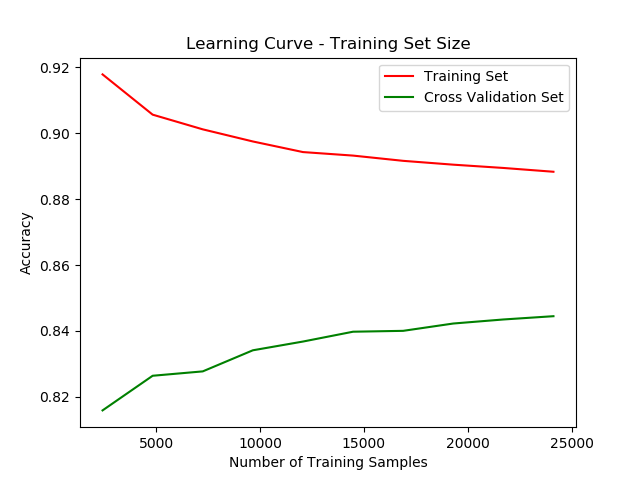
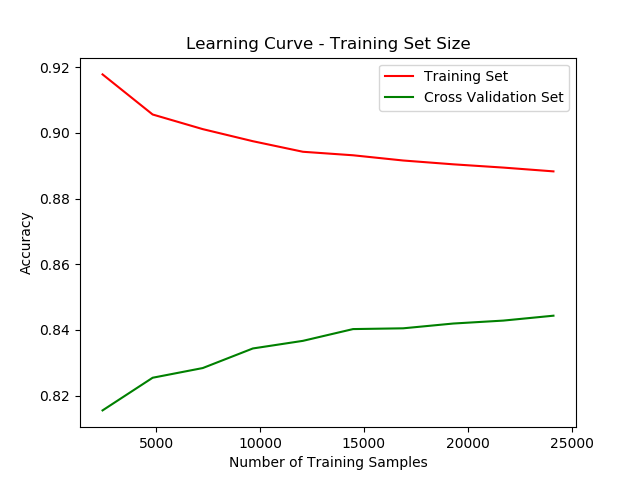
adding neural net

diff --git a/solution/classifiers/census_neural_network.py b/solution/classifiers/census_neural_network.py
@@ -1,6 +1,16 @@
 """
-Decision Tree Classifiers for two U.S Census Income Data
+Neural Net Classifier for two U.S Census Income Data
 This serves as a simple script and can by run directly.
+
+We do the following steps:
+    1. Pre-process the data set
+    2. Plot learning curve for data set train size vs accuracy
+    3. Split into training set and test set
+    4. Plot learning curve vs max depth
+    5. Do grid search against all relevant params and find best model
+    6. Fit to best model
+    7. Predict from best model
+    8. Produce prediction summary
 """
 import os
 import sys
@@ -8,27 +18,12 @@ import sys
 # a way to get around relative imports outside of this package
 sys.path.append(os.path.dirname(os.path.dirname(os.path.dirname(os.path.realpath(__file__)))))
 
-import numpy as np
 import pandas as pd
-import graphviz
-from sklearn.model_selection import KFold, train_test_split, cross_val_score
-from sklearn.metrics import confusion_matrix, classification_report
+from sklearn.model_selection import KFold, train_test_split
 from sklearn.model_selection import GridSearchCV
-from sklearn.model_selection import learning_curve
 from sklearn.neural_network import MLPClassifier
 
-# We have to do some import magic for this to work on a Mac
-# https://github.com/MTG/sms-tools/issues/36
-from sys import platform as sys_pf
-
-if sys_pf == 'darwin':
-    import matplotlib
-
-    matplotlib.use("TkAgg")
-    import matplotlib.pyplot as plt
-else:
-    import matplotlib.pyplot as plt
-
+from solution.classifiers import helpers
 from solution.preprocessors.data_loader import CensusDataLoader
 
 RUN_PATH = os.path.dirname(os.path.dirname(os.path.realpath(__file__)))
@@ -38,14 +33,80 @@ CSV_FILENAME = "raw_census_data.csv"
 df = pd.read_csv(os.path.join(DATA_PATH, CSV_FILENAME))
 df = CensusDataLoader(df).apply_pipeline()
 
-# These are subject to change based on preprocessing
+# These are subject to change based on pre-processing
 feature_cols = ['age_num', 'education-num', 'marital-status_Single',
                 'hours-per-week', 'capital-gain',
-                'capital-loss', 'sex_Male', 'from_united_states']
+                'capital-loss']
+
+kfold = KFold(n_splits=5)
+cls = MLPClassifier(solver='sgd', alpha=.001, hidden_layer_sizes=(20, 5), random_state=0, activation='logistic', max_iter=2000)
+
+# Plot the learning curve vs train size.
+# Helps determine the train vs test split split ratio
+helpers.plot_learning_curve_vs_train_size(
+    cls,
+    df,
+    feature_cols,
+    'income_num',
+    output_location='census_output/neural_net_num_samples_learning_curve.png'
+)
+
+print('b')
 
 x_train, x_test, y_train, y_test = train_test_split(
     df[feature_cols],
     df['income_num'],
     random_state=0,
     test_size=0.35
+)
+
+# Plot the learning curve for max depth vs mean test score
+# helpers.plot_learning_curve_vs_param(
+#     cls,
+#     x_train,
+#     y_train,
+#     param_grid={
+#         'random_state': [0],
+#         'solver': ['sgd'],
+#         'activation': ['logistic'],
+#         'hidden_layer_sizes': ''
+#     },
+#     cv=5,
+#     measure_type='mean_test_score',
+#     output_location='census_output/neural_net_depth_learning_curve.png'
+# )
+
+# Find the best model via GridSearchCV
+grid_search = GridSearchCV(
+    estimator=cls,
+    param_grid={
+        'solver': ['sgd'],
+        'alpha': [1e-5],
+        'hidden_layer_sizes': [(20, 5)],
+        'random_state': [0],
+        'activation': ['logistic']
+    },
+    cv=kfold
+)
+
+grid_search.fit(x_train, y_train)
+
+# print(grid_search.best_score_)
+# print(grid_search.best_params_)
+
+# train the best model
+best_model = grid_search.best_estimator_
+best_model.fit(x_train, y_train)
+
+# Predict income with the trained best model
+y_pred = cls.predict(x_test)
+
+helpers.produce_model_performance_summary(
+    cls,
+    x_test,
+    y_test,
+    y_pred,
+    output_location='census_output/neural_net_summary.txt',
+    cv=kfold,
+    scoring='accuracy'
 )

diff --git a/solution/classifiers/helpers.py b/solution/classifiers/helpers.py
@@ -25,14 +25,15 @@ else:
     import matplotlib.pyplot as plt
 
 
-def produce_model_performance_summary(grid_search, best_model, x_test, y_test, y_pred,
-                                      output_location, cv=5, scoring='accuracy'):
+def produce_model_performance_summary(best_model, x_test, y_test, y_pred,
+                                      output_location, grid_search=None, cv=5, scoring='accuracy'):
     with open(output_location, 'w') as output:
-        output.write('################ GRAPH SEARCH SUMMARY ################\n')
+        if grid_search:
+            output.write('################ GRAPH SEARCH SUMMARY ################\n')
 
-        output.write('BEST SCORE: ' + str(grid_search.best_score_))
-        output.write('\n')
-        output.write('BEST PARAMS: ' + str(grid_search.best_params_))
+            output.write('BEST SCORE: ' + str(grid_search.best_score_))
+            output.write('\n')
+            output.write('BEST PARAMS: ' + str(grid_search.best_params_))
 
         output.write('\n############### PREDICTION SUMMARY ####################\n')
         output.write('CROSS VALIDATION:\n')
@@ -47,12 +48,13 @@ def produce_model_performance_summary(grid_search, best_model, x_test, y_test, y
 
 
 def plot_learning_curve_vs_train_size(classifier, dataframe, feature_cols, target_col, output_location,
-                                      training_label='Training Set', validation_label='Cross Validation Set'):
+                                      training_label='Training Set', validation_label='Cross Validation Set',
+                                      lin_space=np.linspace(0.1, 1.0, num=10)):
     train_sizes, train_scores, validation_scores = learning_curve(
         classifier,
         dataframe[feature_cols],
         dataframe[target_col],
-        train_sizes=np.linspace(0.1, 1.0, num=10),
+        train_sizes=lin_space,
         cv=5
     )
 

diff --git a/solution/classifiers/census_decision_tree.py b/solution/classifiers/census_decision_tree.py
@@ -7,6 +7,10 @@ We do the following steps:
     2. Plot learning curve for data set train size vs accuracy
     3. Split into training set and test set
     4. Plot learning curve vs max depth
+    5. Do grid search against all relevant params and find best model
+    6. Fit to best model
+    7. Predict from best model
+    8. Produce prediction summary
 """
 import os
 import sys
@@ -123,11 +127,11 @@ helpers.export_decision_tree_to_file(
 y_pred = best_model.predict(x_test)
 
 helpers.produce_model_performance_summary(
-    grid_search,
     best_model,
     x_test,
     y_test,
     y_pred,
+    grid_search=grid_search,
     output_location='census_output/decision_tree_summary.txt',
     cv=kfold,
     scoring='accuracy'
